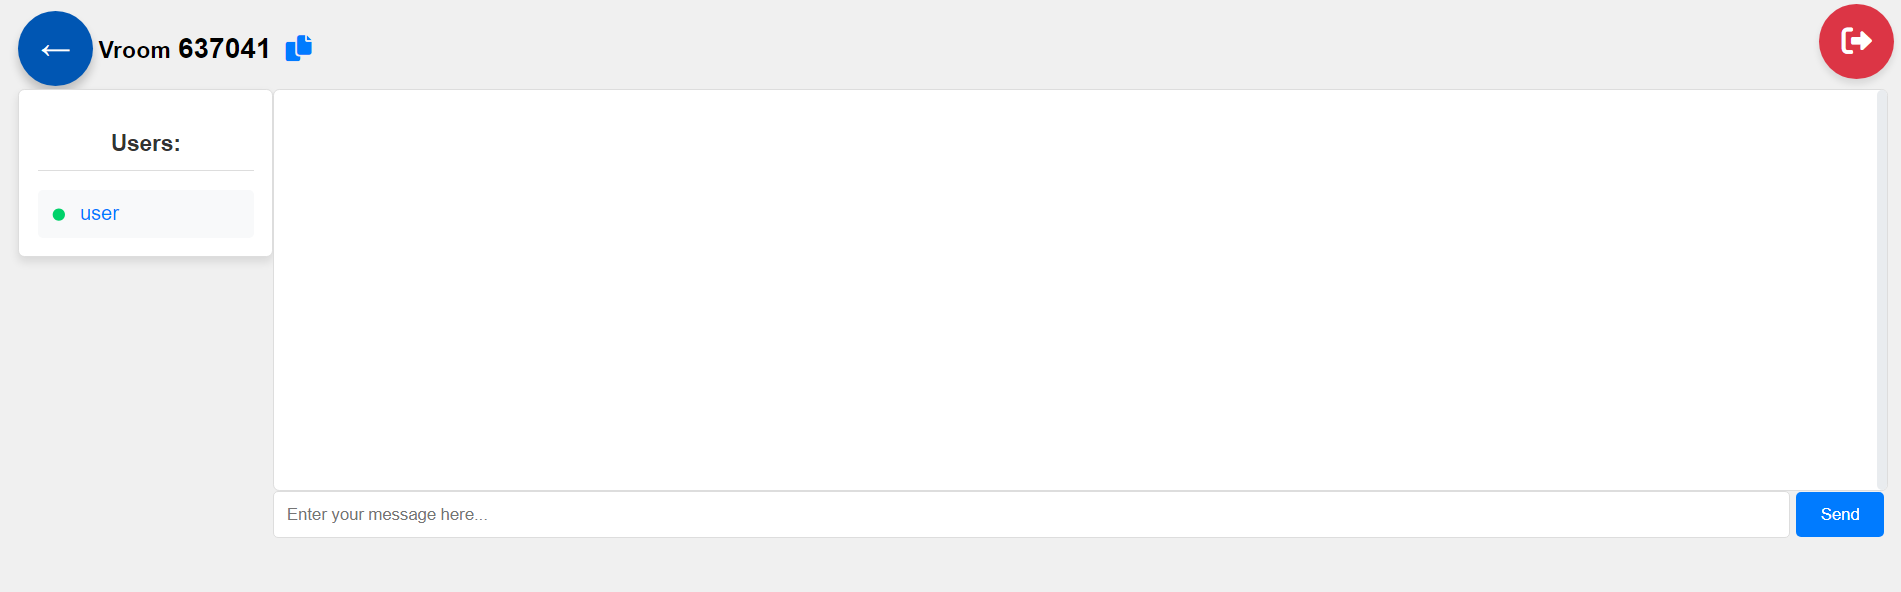
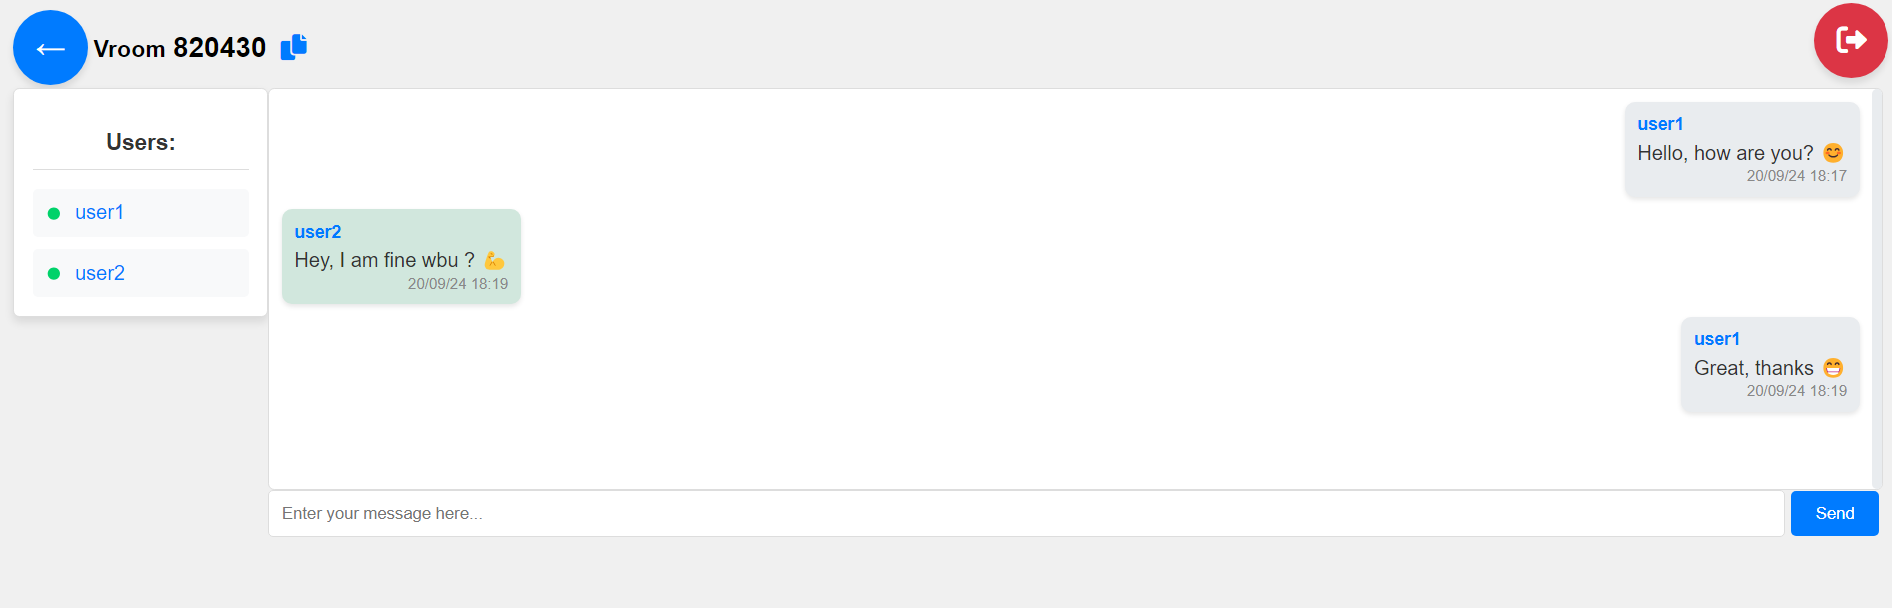
encrypt messages

diff --git a/static/js/room-script.js b/static/js/room-script.js
@@ -1,5 +1,5 @@
 // Get roomHash
-const roomHash = window.room_hash
+const roomHash = window.room_hash;
 let ws;
 let username;
 
@@ -53,18 +53,18 @@ function showCopyFeedback() {
 }
 
 function setupWebSocket() {
-    ws = new WebSocket(`ws://${location.host}/ws/${roomHash}`);
+    ws = new WebSocket(`wss://${location.host}/ws/${roomHash}`);
 
     ws.onopen = function() {
         console.log("Connected to WebSocket.");
-        
+
         // Check sessionStorage for saved credentials
         let password = sessionStorage.getItem("password");
         username = sessionStorage.getItem("username");
 
         // If not found in sessionStorage, redirect to the homepage
         if (!password || !username) {
-            window.location.href = `http://${location.host}`; // Redirect to the homepage
+            window.location.href = `https://${location.host}`; // Redirect to the homepage
             return; // Exit the function to prevent further execution
         }
 
@@ -88,7 +88,7 @@ function setupWebSocket() {
         return `${datePart} ${timePart}`;
     }
 
-    ws.onmessage = function(event) {
+    ws.onmessage = async function(event) {
         const chatLog = document.getElementById("chat-log");
         const parsedData = JSON.parse(event.data);
         const message = document.createElement("div");
@@ -96,10 +96,11 @@ function setupWebSocket() {
         const messageText = document.createElement("p");
         const timestamp = document.createElement("div");
 
+        // Decrypt the message
+        const decryptedMessage = await decryptMessage(parsedData.text, sessionStorage.getItem("password"), roomHash);
+
         // Convert UTC timestamp to local time and format
         const localTime = formatDate(parsedData.timestamp);
-
-        console.log(parsedData.username)
 
         // Determine if the message is from the current user
         const isCurrentUser = parsedData.username === username;
@@ -111,7 +112,7 @@ function setupWebSocket() {
         usernameBox.textContent = parsedData.username;
 
         messageText.className = "message-text";
-        messageText.textContent = parsedData.text;
+        messageText.textContent = decryptedMessage; // Show decrypted message
 
         timestamp.className = "timestamp";
         timestamp.textContent = localTime;
@@ -124,7 +125,6 @@ function setupWebSocket() {
 
         updateUserList();
     };
-
 
     ws.onerror = function(event) {
         console.error("WebSocket error:", event);
@@ -147,16 +147,107 @@ function displayError(message) {
     errorMessageDiv.textContent = message;
 }
 
-document.getElementById("send-btn").onclick = function() {
+// Function to encrypt messages
+async function encryptMessage(message, password, salt) {
+    const encoder = new TextEncoder();
+    const passwordKey = await window.crypto.subtle.importKey(
+        "raw",
+        encoder.encode(password),
+        { name: "PBKDF2" },
+        false,
+        ["deriveKey"]
+    );
+
+    const saltBuffer = encoder.encode(salt);
+    const keyMaterial = await window.crypto.subtle.deriveKey(
+        {
+            name: "PBKDF2",
+            salt: saltBuffer,
+            iterations: 100000,
+            hash: "SHA-256",
+        },
+        passwordKey,
+        { name: "AES-GCM", length: 256 },
+        false,
+        ["encrypt"]
+    );
+
+    const iv = window.crypto.getRandomValues(new Uint8Array(12)); // Initialization vector
+    const encryptedMessage = await window.crypto.subtle.encrypt(
+        {
+            name: "AES-GCM",
+            iv: iv,
+        },
+        keyMaterial,
+        encoder.encode(message)
+    );
+
+    // Return the encrypted message as an ArrayBuffer along with the IV
+    return { encryptedMessage: Array.from(new Uint8Array(encryptedMessage)), iv: Array.from(iv) };
+}
+
+// Function to decrypt messages
+async function decryptMessage(encryptedData, password, salt) {
+    const encoder = new TextEncoder();
+    const decoder = new TextDecoder();
+    const passwordKey = await window.crypto.subtle.importKey(
+        "raw",
+        encoder.encode(password),
+        { name: "PBKDF2" },
+        false,
+        ["deriveKey"]
+    );
+
+    const saltBuffer = encoder.encode(salt);
+    const keyMaterial = await window.crypto.subtle.deriveKey(
+        {
+            name: "PBKDF2",
+            salt: saltBuffer,
+            iterations: 100000,
+            hash: "SHA-256",
+        },
+        passwordKey,
+        { name: "AES-GCM", length: 256 },
+        false,
+        ["decrypt"]
+    );
+
+    const encryptedArray = Uint8Array.from(encryptedData);
+    const iv = encryptedArray.slice(0, 12); // Extract IV from the message
+    const encryptedMessage = encryptedArray.slice(12); // Extract encrypted message
+
+    try {
+        const decryptedMessage = await window.crypto.subtle.decrypt(
+            {
+                name: "AES-GCM",
+                iv: iv,
+            },
+            keyMaterial,
+            encryptedMessage
+        );
+
+        return decoder.decode(decryptedMessage);
+    } catch (err) {
+        console.error("Decryption failed:", err);
+        return "Decryption error"; // Return an error message
+    }
+}
+
+document.getElementById("send-btn").onclick = async function() {
     const input = document.getElementById("chat-input");
     const messageText = input.value.trim();
+
     if (messageText && ws.readyState === WebSocket.OPEN) {
+        const password = sessionStorage.getItem("password");
+        const { encryptedMessage, iv } = await encryptMessage(messageText, password, roomHash);
+        
         const message = JSON.stringify({
             type: 'message',
-            text: messageText
+            text: [...iv, ...encryptedMessage], // Send IV + Encrypted message
         });
+        
         ws.send(message);
-        input.value = "";
+        input.value = ""; // Clear the input field
     } else {
         displayError("Cannot send an empty message or WebSocket is not open.");
     }
@@ -169,13 +260,9 @@ document.getElementById("chat-input").addEventListener("keypress", function(even
     }
 });
 
-
 document.addEventListener('DOMContentLoaded', function() {
-    
     setupWebSocket();
-
 });
-
 
 // Fetch and display connected users
 async function updateUserList() {
@@ -216,5 +303,5 @@ document.getElementById('logout-btn').addEventListener('click', function() {
     // Clear session storage and redirect to login page
 
     sessionStorage.clear();
-    window.location.href = `http://${location.host}`; // Redirect to the homepage
+    window.location.href = `https://${location.host}`; // Redirect to the homepage
 });

diff --git a/readme.md b/readme.md
@@ -2,7 +2,7 @@
 
 ## Overview
 
-Vroom is a real-time chat application built with FastAPI and WebSocket, allowing users to create and join chat rooms. This application supports creating rooms with passwords, joining existing rooms, and exchanging messages in real-time.
+Vroom is a real-time chat application built with FastAPI and WebSocket, allowing users to create and join chat rooms. This application supports creating rooms with passwords, joining existing rooms, and exchanging messages in real-time. **The messages are stored encrytpted in memory until they are recieved**.
 
 ## Features
 
@@ -26,13 +26,26 @@ Vroom is a real-time chat application built with FastAPI and WebSocket, allowing
     pip install -r requirements.txt
     ```
 
-3. **Run the Application**
+3. **If you don't have SSL certificates, generate SSL Certificates for testing**
 
     ```bash
-    uvicorn main:app --reload --host 0.0.0.0 --port 8000
+    # Generate a private key
+    openssl genrsa -out key.pem 2048
+
+    # Generate a certificate signing request (CSR)
+    openssl req -new -key key.pem -out cert.csr
+
+    # Generate a self-signed certificate
+    openssl x509 -req -days 365 -in cert.csr -signkey key.pem -out cert.pem
     ```
 
-    The application will be accessible at `http://127.0.0.1:8000`.
+4. **Run Uvicorn with SSL**
+
+    ```bash
+    uvicorn main:app --host 0.0.0.0 --port 8000 --ssl-keyfile=key.pem --ssl-certfile=cert.pem
+    ```
+
+    The application will be accessible at **`https://127.0.0.1:8000/`**.
 
 ## Usage
 
